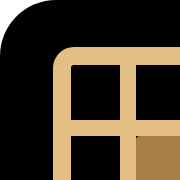
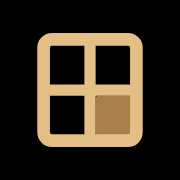
Add files via upload

diff --git a/index.html b/index.html
@@ -73,9 +73,11 @@ input:disabled{background:var(--surface-2);color:var(--muted)}
 <div class="wrap">
   <header class="top">
     <svg viewBox="0 0 32 32" aria-hidden="true">
-      <rect x="1" y="1" width="30" height="30" rx="6" fill="var(--ink)"/>
-      <path d="M8 22.5 L16 8 L24 22.5" fill="none" stroke="var(--accent)" stroke-width="2.4" stroke-linejoin="round" stroke-linecap="round"/>
-      <path d="M11.5 18.5 H20.5" fill="none" stroke="var(--accent)" stroke-width="2.4" stroke-linecap="round"/>
+      <rect width="32" height="32" rx="7" fill="#000000"/>
+      <rect x="17" y="17" width="6.5" height="7" rx="0.5" fill="#A87E49"/>
+      <rect x="7.75" y="7" width="16.5" height="18" rx="1.5" fill="none" stroke="#E3BE85" stroke-width="2.25"/>
+      <path d="M16 8.125 V23.875" stroke="#E3BE85" stroke-width="2" stroke-linecap="round"/>
+      <path d="M8.875 16 H23.125" stroke="#E3BE85" stroke-width="2" stroke-linecap="round"/>
     </svg>
     <h1>Fiche de visite</h1>
   </header>

diff --git a/sw.js b/sw.js
@@ -2,7 +2,7 @@
    Stratégie : on va voir le réseau d'abord, et on se rabat sur la copie
    locale dès qu'il manque. Ainsi la tablette a toujours la dernière
    version quand elle est connectée, et fonctionne quand elle ne l'est pas. */
-var VERSION = "2026-11-02";
+var VERSION = "2026-11-02b";
 var CACHE = "fiche-visite-" + VERSION;
 var FICHIERS = ["./", "./index.html", "./manifest.webmanifest",
                 "./icon-192.png", "./icon-512.png", "./apple-touch-icon.png"];
